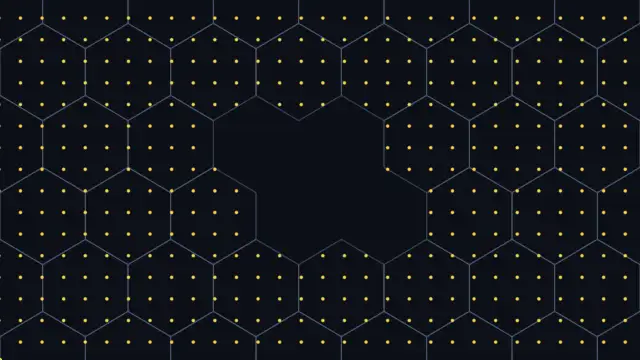
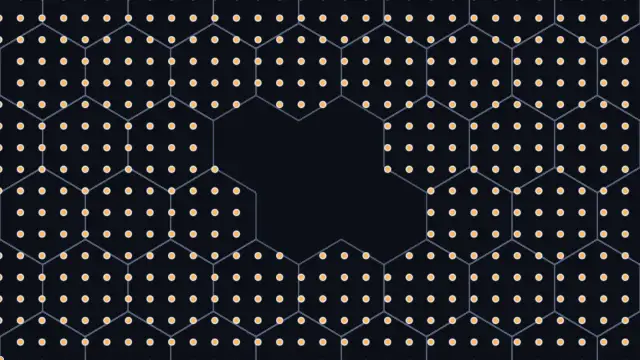
Gridlight: legible pictures for 12 faint runs, current lens count
- gamma-statistic, map-matching, network-snapping, pointcloud-change,
  dot-density, random-points-in-polygon, continuous-spatial-sample,
  track-similarity-search, glcm-texture, make-raster-grid, raster-reclassify
  and space-time-variogram now read clearly in both themes (ramps fitted to
  the output range, visible input context, larger output marks); snapshots
  regenerated.
- Lenses page lead counts 409 of 439 function pages with recorded runs.
- Verified after a full visual review of all 428 run pictures: lint, tsc,
  catalog 0/0, build 561 pages, check-all-pages 449/449 with 439/439
  function pages live, 0 illustrative.

diff --git a/website/src/gpu/runs/entries/spatial-statistics/gamma-statistic.ts b/website/src/gpu/runs/entries/spatial-statistics/gamma-statistic.ts
@@ -12,7 +12,7 @@ import {createBandGraph, createPointField, mixNoise} from './shared/point-field'
 import {parameters} from './gamma-statistic.parameters';
 
 // One scale for every operation: the statistic is normalized, and absolute differences are larger.
-const GAUGE_LIMIT = 0.08;
+const GAUGE_LIMIT = 0.03;
 const BAND_RADIUS = 0.08;
 const OPERATIONS = ['cross-product', 'squared-difference', 'absolute-difference'] as const;
 
@@ -42,20 +42,28 @@ export default defineOperationRun({
     };
   },
   rebuildOn: ['operation'],
-  draw: ({outputs}) => [
+  draw: ({outputs, theme}) => [
+    // An ink ring under every dot keeps the low end of the ramp readable on both backgrounds.
+    {
+      layer: 'dots',
+      positions: outputs.positions,
+      radius: 7.5,
+      color: [...theme.ink, 0.9]
+    },
     {
       layer: 'dots',
       positions: outputs.positions,
       values: outputs.valueBuffer,
-      radius: 4,
-      range: [0.1, 0.9]
+      radius: 5.5,
+      range: [-0.35, 0.9]
     },
     {
       layer: 'chart',
       kind: 'bars',
       values: outputs.statistic,
       range: [0, GAUGE_LIMIT],
-      rectangle: [0.4, 0.04, 0.6, 0.32]
+      rectangle: [0.25, 0.04, 0.75, 0.32],
+      color: [...theme.categories[1], 1]
     }
   ]
 });

diff --git a/website/src/gpu/runs/entries/raster-bands-indices/glcm-texture.ts b/website/src/gpu/runs/entries/raster-bands-indices/glcm-texture.ts
@@ -104,13 +104,29 @@ export default defineOperationRun({
         )
     };
   },
-  draw: ({outputs, values}) => [
+  // The shown feature's 2nd to 98th percentile fits the ramp, so a few extreme cells cannot flatten
+  // the rest. Sequential features start below the minimum: the smooth side stays visible.
+  async afterRun({outputs, values}) {
+    const feature = Math.round(values.feature);
+    const bytes = await outputs.gathered[feature].buffer.readAsync();
+    const sorted = Float32Array.from(
+      new Float32Array(bytes.buffer, bytes.byteOffset, COLUMNS * ROWS)
+    )
+      .filter(Number.isFinite)
+      .sort();
+    const low = sorted[Math.floor(sorted.length * 0.02)] ?? 0;
+    const high = sorted[Math.floor(sorted.length * 0.98)] ?? 1;
+    const span = Math.max(high - low, 1e-6);
+    return {range: [low - span * 0.4, high] as const};
+  },
+  draw: ({outputs, values, extra}) => [
     {
       layer: 'raster',
       values: outputs.gathered[Math.round(values.feature)],
       columns: COLUMNS,
       rows: ROWS,
       ramp: Math.round(values.feature) === 5 ? 'diverging' : 'sequential',
+      range: Math.round(values.feature) === 5 ? 'auto' : (extra?.range ?? 'auto'),
       smoothing: false
     }
   ]

diff --git a/website/src/gpu/runs/entries/network-routing-access/map-matching.ts b/website/src/gpu/runs/entries/network-routing-access/map-matching.ts
@@ -110,15 +110,24 @@ export default defineOperationRun({
       }
     };
   },
-  draw: ({outputs}) => [
+  draw: ({outputs, theme}) => [
     getRoadContext(outputs),
-    {layer: 'lines', context: true, segments: outputs.polylines, radius: 1.2},
+    // Raw GPS: a muted track, drawn thicker so the zigzag off the roads is visible.
+    {
+      layer: 'lines',
+      context: true,
+      segments: outputs.polylines,
+      radius: 1.6,
+      color: [...theme.categories[1], 0.75]
+    },
+    // Matched positions: an ink ring under a ramp-colored dot, on top of the roads.
+    {layer: 'dots', positions: outputs.snappedPositions, radius: 8, color: [...theme.ink, 1]},
     {
       layer: 'dots',
       positions: outputs.snappedPositions,
       values: outputs.snapDistances,
-      range: [0, 0.03],
-      radius: 5
+      range: [-0.012, 0.03],
+      radius: 6
     }
   ]
 });

diff --git a/website/src/gpu/runs/entries/network-routing-access/network-snapping.ts b/website/src/gpu/runs/entries/network-routing-access/network-snapping.ts
@@ -57,15 +57,23 @@ export default defineOperationRun({
       }
     };
   },
-  draw: ({outputs}) => [
+  draw: ({outputs, theme}) => [
     getRoadContext(outputs),
-    {layer: 'dots', context: true, positions: outputs.points, radius: 3},
+    // Raw points: hollow-looking orange context, then snapped positions in an ink ring on the roads.
+    {
+      layer: 'dots',
+      context: true,
+      positions: outputs.points,
+      radius: 3.5,
+      color: [...theme.categories[1], 0.8]
+    },
+    {layer: 'dots', positions: outputs.snappedPositions, radius: 7, color: [...theme.ink, 1]},
     {
       layer: 'dots',
       positions: outputs.snappedPositions,
       values: outputs.snapDistances,
-      range: [0, 0.04],
-      radius: 4.5
+      range: [-0.015, 0.04],
+      radius: 5
     }
   ]
 });

diff --git a/website/src/gpu/runs/entries/density-interpolation-regions/continuous-spatial-sample.ts b/website/src/gpu/runs/entries/density-interpolation-regions/continuous-spatial-sample.ts
@@ -68,8 +68,17 @@ export default defineOperationRun({
       }
     };
   },
-  draw: ({outputs}) => [
-    {layer: 'lines', context: true, segments: outputs.outline, count: outputs.outlineCount},
-    {layer: 'dots', positions: outputs.sites, radius: 3.5, color: [1, 0.85, 0.3, 1]}
+  draw: ({outputs, theme}) => [
+    {
+      layer: 'lines',
+      context: true,
+      segments: outputs.outline,
+      count: outputs.outlineCount,
+      radius: 1.6,
+      color: [...theme.muted, 0.9]
+    },
+    // Ink ring under an accent fill: legible on the dark and the light background alike.
+    {layer: 'dots', positions: outputs.sites, radius: 6.5, color: [...theme.ink, 1]},
+    {layer: 'dots', positions: outputs.sites, radius: 4.5, color: [...theme.categories[1], 1]}
   ]
 });

diff --git a/website/src/gpu/runs/entries/density-interpolation-regions/random-points-in-polygon.ts b/website/src/gpu/runs/entries/density-interpolation-regions/random-points-in-polygon.ts
@@ -44,8 +44,15 @@ export default defineOperationRun({
     );
     return {outputs: {samples, ids, ...uploadTractMesh(builder, tracts)}};
   },
-  draw: ({inputs, outputs}) => [
-    {layer: 'lines', context: true, segments: outputs.outline, count: inputs.outlineCount},
-    {layer: 'dots', positions: outputs.samples, values: outputs.ids, radius: 2.2}
+  draw: ({inputs, outputs, theme}) => [
+    {
+      layer: 'lines',
+      context: true,
+      segments: outputs.outline,
+      count: inputs.outlineCount,
+      radius: 1.6,
+      color: [...theme.muted, 0.9]
+    },
+    {layer: 'dots', positions: outputs.samples, values: outputs.ids, radius: 4}
   ]
 });

diff --git a/website/src/gpu/runs/entries/density-interpolation-regions/dot-density.ts b/website/src/gpu/runs/entries/density-interpolation-regions/dot-density.ts
@@ -49,13 +49,20 @@ export default defineOperationRun({
     );
     return {outputs: {dotPositions, categories, ...uploadTractMesh(builder, tracts)}};
   },
-  draw: ({inputs, outputs}) => [
-    {layer: 'lines', context: true, segments: outputs.outline, count: inputs.outlineCount},
+  draw: ({inputs, outputs, theme}) => [
+    {
+      layer: 'lines',
+      context: true,
+      segments: outputs.outline,
+      count: inputs.outlineCount,
+      radius: 1.6,
+      color: [...theme.muted, 0.9]
+    },
     {
       layer: 'dots',
       positions: outputs.dotPositions,
       values: outputs.categories,
-      radius: 1.6
+      radius: 3.2
     }
   ]
 });

diff --git a/website/src/gpu/runs/entries/dataframe-pointcloud-records/pointcloud-change.ts b/website/src/gpu/runs/entries/dataframe-pointcloud-records/pointcloud-change.ts
@@ -73,14 +73,22 @@ export default defineOperationRun({
     };
   },
   rebuildOn: ['radius', 'halfDepth'],
-  draw: ({outputs}) => [
+  draw: ({outputs, theme}) => [
+    // Every core point as a muted-but-visible dot; the changed ones stand out in saturated colors.
+    {
+      layer: 'dots',
+      context: true,
+      positions: outputs.cores,
+      radius: 5.5,
+      color: [...theme.muted, 0.7]
+    },
     {
       layer: 'dots',
       positions: outputs.cores,
       values: outputs.change,
       ramp: 'diverging',
-      range: [-0.08, 0.08],
-      radius: 4.5
+      range: [-0.05, 0.05],
+      radius: 8
     }
   ]
 });

diff --git a/website/src/gpu/runs/entries/recipes-trajectories/track-similarity-search.ts b/website/src/gpu/runs/entries/recipes-trajectories/track-similarity-search.ts
@@ -49,13 +49,15 @@ export default defineOperationRun({
     };
   },
   rebuildOn: ['metric'],
-  draw: ({outputs}) => [
+  // Small distance = similar = bright: a negative lower bound lifts the near-zero matches off the
+  // background, and the diagonal and matched family blocks read at thumbnail size.
+  draw: ({outputs, values}) => [
     {
       layer: 'raster',
       values: outputs.distance,
       columns: TRACK_COUNT,
       rows: TRACK_COUNT,
-      range: [0, 1.5]
+      range: [-0.15, Math.max(0.3, values.threshold)]
     }
   ]
 });

diff --git a/website/src/components/meta/topics.ts b/website/src/components/meta/topics.ts
@@ -56,7 +56,7 @@ export const TOPICS: readonly Topic[] = [
   {
     slug: 'lenses',
     title: 'Lenses',
-    lead: '409 of 438 function pages show a run recorded on a real GPU: graph, formula and the data it produced.',
+    lead: '409 of 439 function pages show a run recorded on a real GPU: graph, formula and the data it produced.',
     scenarios: [
       FEATURED_LENS_SCENARIOS.kernelDensity,
       FEATURED_LENS_SCENARIOS.localMoran,

diff --git a/website/src/gpu/runs/entries/raster-bands-indices/raster-reclassify.ts b/website/src/gpu/runs/entries/raster-bands-indices/raster-reclassify.ts
@@ -54,6 +54,7 @@ export default defineOperationRun({
   },
   draw: ({inputs, outputs}) => [
     drawRaster(inputs, outputs.source, {context: true}),
-    drawRaster(inputs, outputs.classes, {ramp: 'sequential', range: [0, MAXIMUM_BREAK_COUNT]})
+    // uint32 classes take the categorical palette: one distinct color per class.
+    drawRaster(inputs, outputs.classes, {ramp: 'categorical'})
   ]
 });

diff --git a/website/src/gpu/runs/entries/raster-bands-indices/make-raster-grid.ts b/website/src/gpu/runs/entries/raster-bands-indices/make-raster-grid.ts
@@ -70,6 +70,12 @@ export default defineOperationRun({
     };
   },
   draw: ({outputs}) => [
-    {layer: 'dots', positions: outputs.probes, values: outputs.sampled, radius: 3.2, range: [0, 1]}
+    {
+      layer: 'dots',
+      positions: outputs.probes,
+      values: outputs.sampled,
+      radius: 4.6,
+      range: [-0.35, 1]
+    }
   ]
 });
